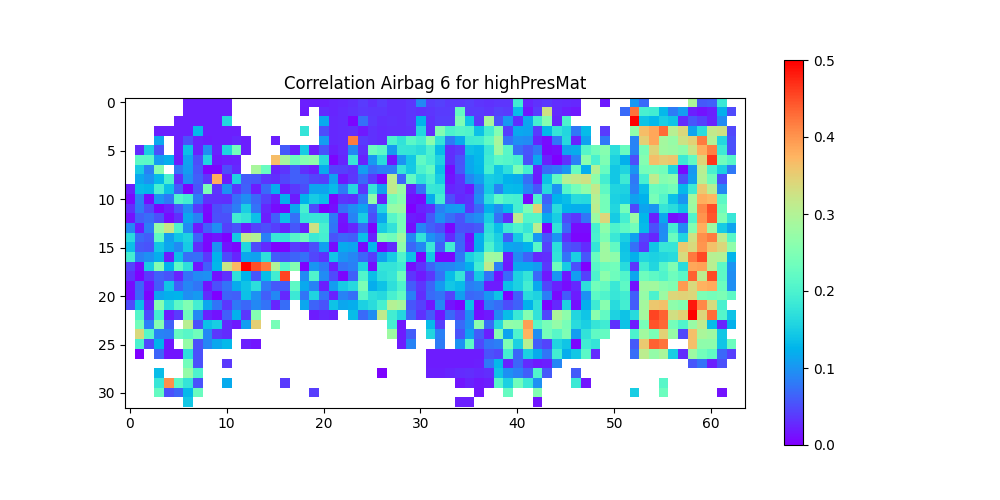
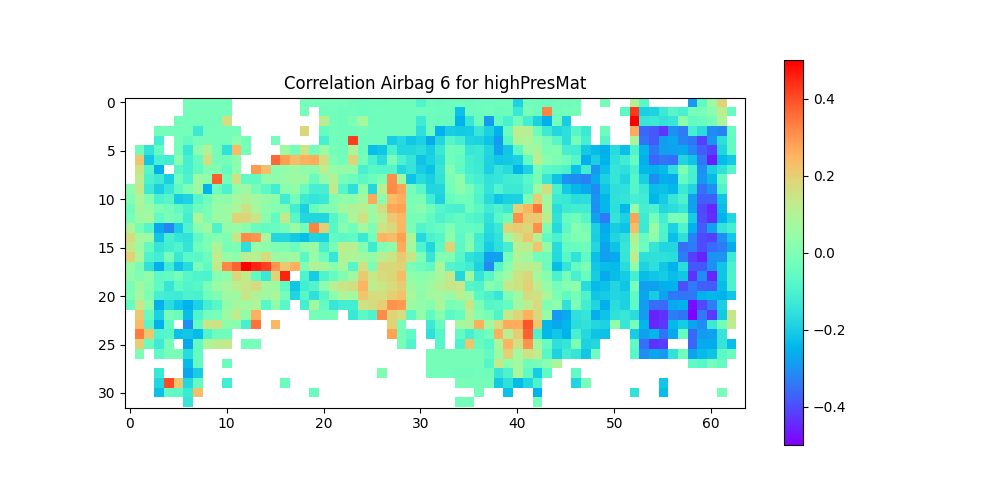
change airbag correlation analysis

diff --git a/airbag_correlation_analysis_high.py b/airbag_correlation_analysis_high.py
@@ -177,7 +177,7 @@ def corretion_display():
     for i, correlations in enumerate(correlation_matrix):
         reshaped_correlations = correlations.reshape((32, 64))
         plt.figure(figsize=(10, 5))
-        plt.imshow(np.abs(reshaped_correlations), cmap='rainbow', interpolation='nearest', vmin=0, vmax=0.5)
+        plt.imshow(reshaped_correlations, cmap='rainbow', interpolation='nearest', vmin=-0.5, vmax=0.5)
         plt.colorbar()
         plt.title(f'Correlation Airbag {i + 1} for highPresMat')
         plt.savefig(f'./files_for_correlation_analysis/high/airbag_{i + 1}_highPresMat_correlation.png')
@@ -245,6 +245,8 @@ def dynamic_pic(airbag_values, mat_values):
 
 
 if __name__ == "__main__":
+    # corretion_display()
+
     data_dic = read_data()
 
     airbag_values = np.zeros((len(data_dic), 6))
